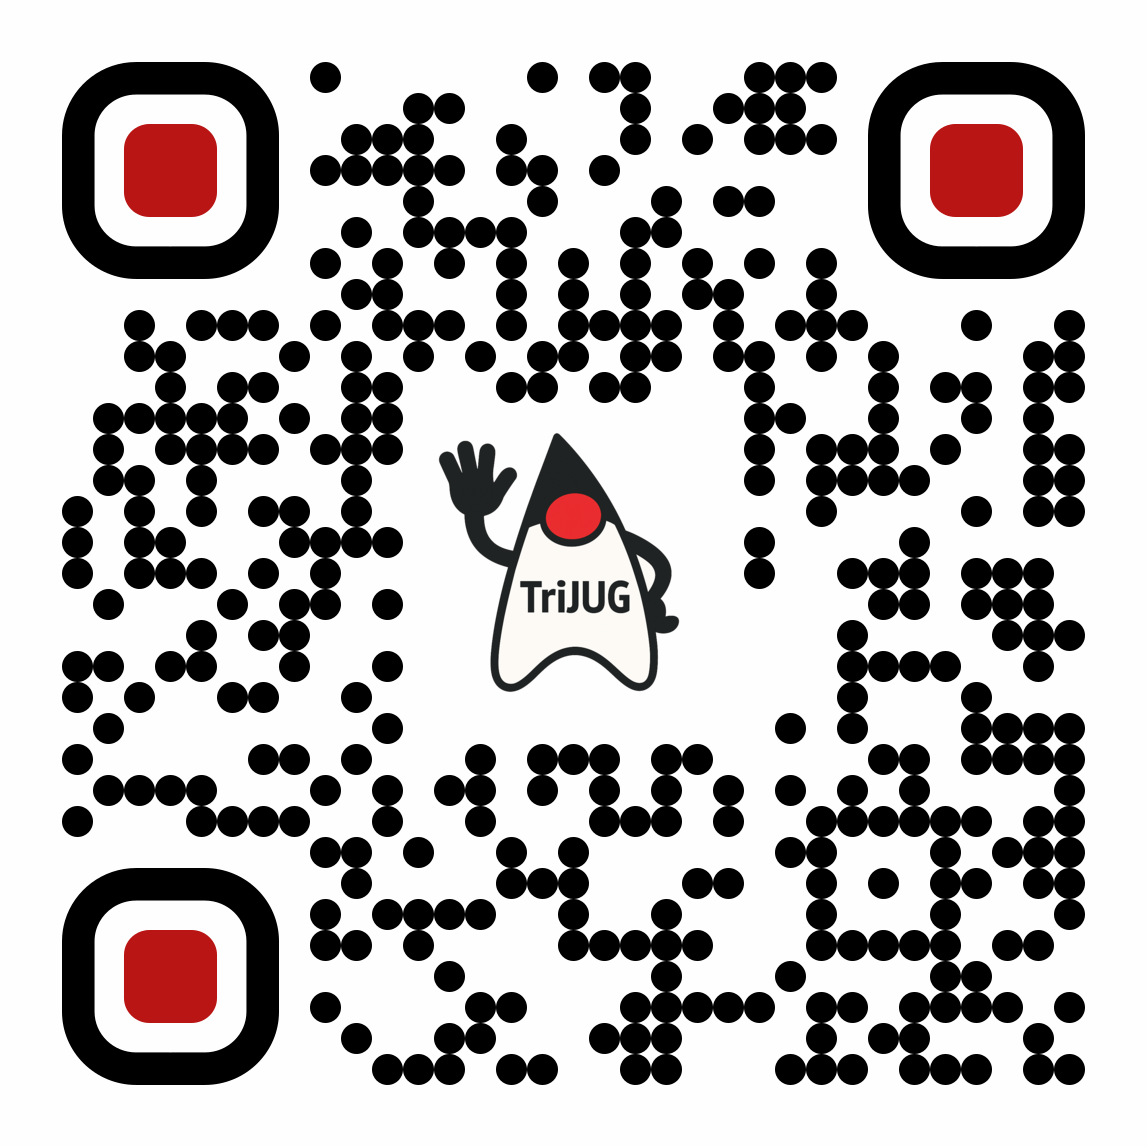
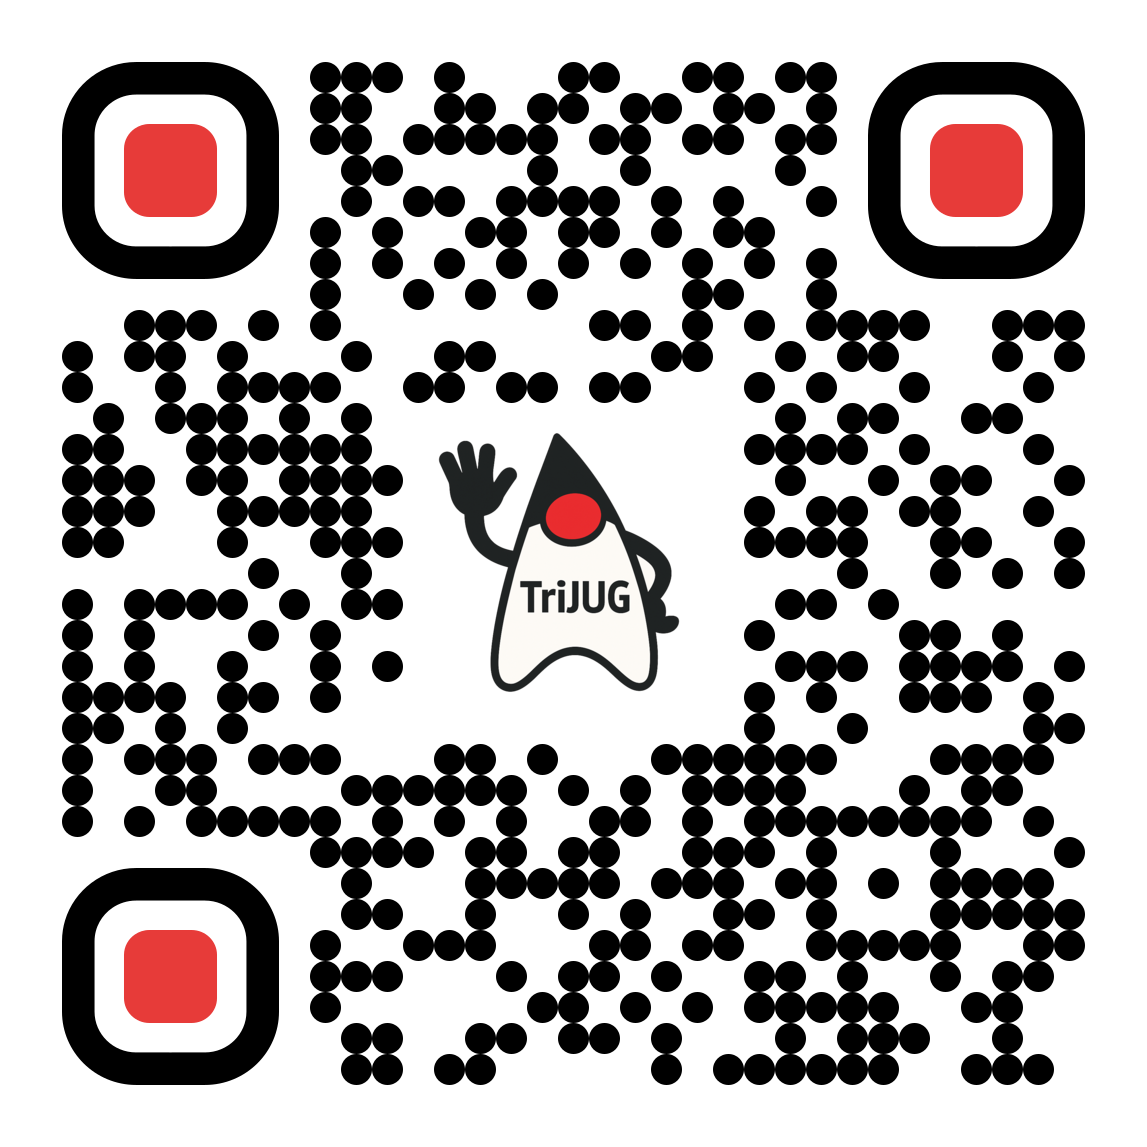
Prepare for 2025-05-12 (Mike Nichols)

diff --git a/sections/trijug.md b/sections/trijug.md
@@ -1,8 +1,7 @@
 #### Triangle Java Users Group Presents...
-# DataFrame
-## _A Swiss Army Knife of Java Data Processing_
-### by Andrus Adamchik
-April 30, 2025
+# Build Invincible Apps With Temporal
+### by Mike Nichols
+May 12, 2025
 
 --slide--
 
@@ -13,18 +12,20 @@ April 30, 2025
 
 --slide--
 
-# Discord!
+# discord.trijug.dev
 
 <img src="images/qr/qr-discord.png" height="400" width="400" style="border:none; box-shadow:none; background:white;"/>
 
 
 --slide--
 
-## Next Meetup
+# Next Meetup
 
-### Michael Nichols @ Temporal.io
+## Neurodivergent Minds in Software
+## Friction and Flow at Work
+#### by Jim Scarborough
 
-Monday, May 12, 2025
+Monday, June 2, 2025
 
 At Deutsche Bank
 
@@ -35,14 +36,4 @@ At Deutsche Bank
 * Become a leader in the community
 * Personal and professional growth
 * Looks great on a resume and makes you a hit at parties
-
-
---slide--
-
-# Who is hiring?
-
---slide--
-
-# Who is looking?
-
 

diff --git a/sections/speaker.md b/sections/speaker.md
@@ -1,6 +1,5 @@
 #### Our Speaker...
 
-# Andrus Adamchik
-- Member of the Apache Software Foundation
-- Dedicated open source project founder and commiter - Apache Cayenne, Bootique.io, and DLib
-- Runs a software company called ObjectStyle
+# Mike Nichols
+- Solutions Architect at Temporal
+- 20+ years experience developing software 
